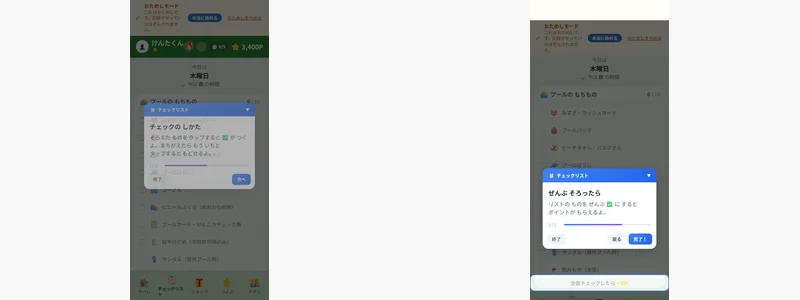
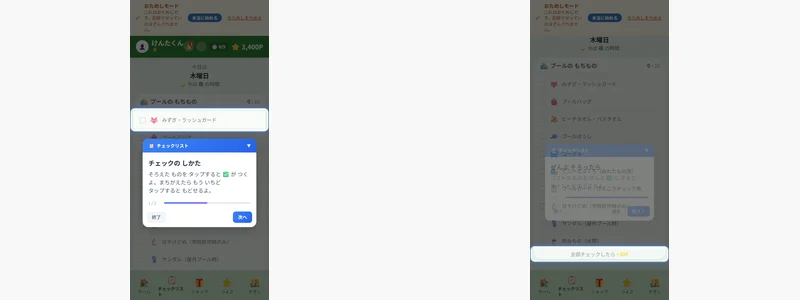
screenshots: PR #5006 (2026-09-23)

diff --git a/pr-5006/01-after-checklist-elementary-mobile-01-child-checklist-check.dom.html b/pr-5006/01-after-checklist-elementary-mobile-01-child-checklist-check.dom.html
@@ -38,7 +38,7 @@
 				transition-colors min-h-16
 				text-[var(--color-text-on-theme-nav)]" data-testid="nav-status" data-tutorial="nav-status"><span class="text-2xl" aria-hidden="true">⭐</span> <!--[0--><span class="text-xs">つよさ</span><!--]--></a><a href="/switch" class="tap-target flex flex-col items-center justify-center gap-0.5 flex-1 py-[var(--sp-sm)]
 				transition-colors min-h-16
-				text-[var(--color-text-on-theme-nav)]" data-testid="nav-switch"><span class="text-2xl" aria-hidden="true">👨👩👧👦</span> <!--[0--><span class="text-xs">かぞく</span><!--]--></a><!--]--></nav><!----> <!--[--><!--$s2--><!--[-1--><!--]--><!----><!--]--><!----> <!--[--><!--$s3--><!--[-1--><!--]--><!----><!--]--><!----><!---->  <!--[-1--><div class="tutorial-overlay svelte-c315ht" data-tutorial-target="fallback"><svg class="tutorial-overlay-svg svelte-c315ht" xmlns="http://www.w3.org/2000/svg" aria-hidden="true"><!----><rect class="tutorial-overlay-bg svelte-c315ht" width="100%" height="100%" fill="rgba(0,0,0,0.6)"></rect></svg> <!----> <div class="tutorial-bubble svelte-9wfq4r" data-step-id="child-checklist-check" data-has-target="true" style="top: 282px; left: 35px; width: 320px;"><div class="tutorial-chapter-header svelte-9wfq4r"><button class="tutorial-chapter-btn svelte-9wfq4r">📋 <span>チェックリスト</span> <span class="tutorial-chapter-arrow svelte-9wfq4r">▼</span></button></div> <!----> <div class="tutorial-content svelte-9wfq4r"><h3 class="tutorial-title svelte-9wfq4r" data-budoux="">チェックの しかた</h3> <p class="tutorial-description svelte-9wfq4r" data-budoux="">そろえた ものを タップすると ✅ が つくよ。まちがえたら もう いちど タップすると もどせるよ。</p></div> <div class="tutorial-progress svelte-9wfq4r"><span class="tutorial-progress-text svelte-9wfq4r">1 / 2</span> <div class="tutorial-progress-bar svelte-9wfq4r"><div class="tutorial-progress-fill svelte-9wfq4r" style="width: 50%;"></div></div></div> <div class="tutorial-nav svelte-9wfq4r"><button class="tutorial-nav-btn tutorial-nav-end svelte-9wfq4r">終了</button> <div class="tutorial-nav-right svelte-9wfq4r"><!----> <button class="tutorial-nav-btn tutorial-nav-next svelte-9wfq4r">次へ</button></div></div></div><!----></div><!--]--><!----><!--]--></div> <!--[0--><!--[-1--><!--]--><!--]--> <!--[0--><!--[--><!--$s4--><!--[-1--><!--]--><!----><!--]--><!--]--> <!--[0--><!--[--><!--$s5--><!--[-1--><!--]--><!----><!--]--><!--]--><!--]--><!--]--><!----><!--]--><!--]--> <!--[-1--><div id="svelte-announcer" aria-live="assertive" aria-atomic="true" style="position: absolute; left: 0; top: 0; clip: rect(0 0 0 0); clip-path: inset(50%); overflow: hidden; white-space: nowrap; width: 1px; height: 1px"><!----></div><!--]--><!--]-->
+				text-[var(--color-text-on-theme-nav)]" data-testid="nav-switch"><span class="text-2xl" aria-hidden="true">👨👩👧👦</span> <!--[0--><span class="text-xs">かぞく</span><!--]--></a><!--]--></nav><!----> <!--[--><!--$s2--><!--[-1--><!--]--><!----><!--]--><!----> <!--[--><!--$s3--><!--[-1--><!--]--><!----><!--]--><!----><!---->  <!--[-1--><div class="tutorial-overlay svelte-c315ht" data-tutorial-target="resolved"><svg class="tutorial-overlay-svg svelte-c315ht" xmlns="http://www.w3.org/2000/svg" aria-hidden="true"><defs class="svelte-c315ht"><mask id="tutorial-spotlight" class="svelte-c315ht"><rect width="100%" height="100%" fill="white" class="svelte-c315ht"></rect><rect rx="12" fill="black" class="svelte-c315ht" x="1" y="304.5" width="388" height="65"></rect></mask></defs><!----><rect class="tutorial-overlay-bg svelte-c315ht" width="100%" height="100%" fill="rgba(0,0,0,0.6)" mask="url(#tutorial-spotlight)"></rect></svg> <div class="tutorial-spotlight-ring svelte-c315ht" style="top: 302.5px; left: -1px; width: 392px; height: 69px;"></div><!----> <div class="tutorial-bubble svelte-9wfq4r" data-step-id="child-checklist-check" data-has-target="true" style="top: 389.5px; left: 35px; width: 320px;"><div class="tutorial-chapter-header svelte-9wfq4r"><button class="tutorial-chapter-btn svelte-9wfq4r">📋 <span>チェックリスト</span> <span class="tutorial-chapter-arrow svelte-9wfq4r">▼</span></button></div> <!----> <div class="tutorial-content svelte-9wfq4r"><h3 class="tutorial-title svelte-9wfq4r" data-budoux="">チェックの しかた</h3> <p class="tutorial-description svelte-9wfq4r" data-budoux="">そろえた ものを タップすると ✅ が つくよ。まちがえたら もう いちど タップすると もどせるよ。</p></div> <div class="tutorial-progress svelte-9wfq4r"><span class="tutorial-progress-text svelte-9wfq4r">1 / 2</span> <div class="tutorial-progress-bar svelte-9wfq4r"><div class="tutorial-progress-fill svelte-9wfq4r" style="width: 50%;"></div></div></div> <div class="tutorial-nav svelte-9wfq4r"><button class="tutorial-nav-btn tutorial-nav-end svelte-9wfq4r">終了</button> <div class="tutorial-nav-right svelte-9wfq4r"><!----> <button class="tutorial-nav-btn tutorial-nav-next svelte-9wfq4r">次へ</button></div></div></div><!----></div><!--]--><!----><!--]--></div> <!--[0--><!--[-1--><!--]--><!--]--> <!--[0--><!--[--><!--$s4--><!--[-1--><!--]--><!----><!--]--><!--]--> <!--[0--><!--[--><!--$s5--><!--[-1--><!--]--><!----><!--]--><!--]--><!--]--><!--]--><!----><!--]--><!--]--> <!--[-1--><div id="svelte-announcer" aria-live="assertive" aria-atomic="true" style="position: absolute; left: 0; top: 0; clip: rect(0 0 0 0); clip-path: inset(50%); overflow: hidden; white-space: nowrap; width: 1px; height: 1px"><!----></div><!--]--><!--]-->
 			
 			<script>
 				{
@@ -54,7 +54,7 @@
 					]).then(([kit, app]) => {
 						kit.start(app, element, {
 							node_ids: [0, 2, 11],
-							data: [{type:"data",data:{role:"owner",requestId:"ad2b3716-3bb4-45de-99b9-adc5c8e0931b",isDemo:true},uses:{}},(function(a){a.id="903";a.nickname="けんたくん";a.age=8;a.birthDate="2018-03-22";a.theme="green";a.uiMode="elementary";a.uiModeManuallySet=0;a.avatarUrl=null;a.displayConfig=null;a.userId=null;a.birthdayBonusMultiplier=1;a.lastBirthdayBonusYear=null;a.isArchived=0;a.archivedReason=null;a.createdAt="2025-04-01T00:00:00.000Z";a.updatedAt="2026-03-27T09:00:00.000Z";return {type:"data",data:{child:a,balance:3400,level:8,levelTitle:"きせきのマスター",allChildren:[{id:"901",nickname:"たろうくん",age:1,birthDate:"2025-01-15",theme:"blue",uiMode:"baby",uiModeManuallySet:0,avatarUrl:null,displayConfig:null,userId:null,birthdayBonusMultiplier:1,lastBirthdayBonusYear:null,isArchived:0,archivedReason:null,createdAt:"2026-01-01T00:00:00.000Z",updatedAt:"2026-03-27T09:00:00.000Z"},{id:"902",nickname:"ひなちゃん",age:5,birthDate:"2020-06-10",theme:"pink",uiMode:"preschool",uiModeManuallySet:0,avatarUrl:null,displayConfig:null,userId:null,birthdayBonusMultiplier:1,lastBirthdayBonusYear:null,isArchived:0,archivedReason:null,createdAt:"2025-09-01T00:00:00.000Z",updatedAt:"2026-03-27T09:00:00.000Z"},a,{id:"904",nickname:"さくらちゃん",age:14,birthDate:"2011-08-05",theme:"purple",uiMode:"junior",uiModeManuallySet:0,avatarUrl:null,displayConfig:null,userId:null,birthdayBonusMultiplier:1,lastBirthdayBonusYear:null,isArchived:0,archivedReason:null,createdAt:"2025-04-01T00:00:00.000Z",updatedAt:"2026-03-27T09:00:00.000Z"},{id:"906",nickname:"けいすけくん",age:17,birthDate:"2008-11-20",theme:"orange",uiMode:"senior",uiModeManuallySet:0,avatarUrl:null,displayConfig:null,userId:null,birthdayBonusMultiplier:1,lastBirthdayBonusYear:null,isArchived:0,archivedReason:null,createdAt:"2025-04-01T00:00:00.000Z",updatedAt:"2026-03-27T09:00:00.000Z"}],uiMode:"elementary",pointSettings:{mode:"point",currency:"JPY",rate:1},stampProgress:{filled:0,total:5},stampCard:{id:"0",childId:"903",weekStart:"2026-09-21",weekEnd:"2026-09-27",status:"collecting",entries:[],canStampToday:true,totalSlots:5,filledSlots:0,redeemedPoints:null},isPremium:true,planTier:"family",planLimits:{maxChildren:null,maxActivities:null,maxChecklistTemplates:null,maxFamilyMembers:null,historyRetentionDays:null,canExport:true,canFreeTextMessage:true,canCustomReward:true,canSiblingRanking:true,maxCloudExports:10},milestones:[{id:"first_record",threshold:1,achieved:true,achievedAt:"2026-03-14"},{id:"streak_7",threshold:7,achieved:true,achievedAt:null},{id:"streak_14",threshold:14,achieved:true,achievedAt:null},{id:"streak_30",threshold:30,achieved:false,achievedAt:null}],pinGateOnboardingSeen:true},uses:{url:1}}}({})),{type:"data",data:{checklists:[{templateId:"5000",templateName:"プールの もちもの",templateIcon:"🏊",timeSlot:"daily",pointsPerItem:2,completionBonus:10,items:[{id:"6000",name:"みずぎ・ラッシュガード",icon:"👙",checked:false,source:"template"},{id:"6001",name:"プールバッグ",icon:"🎒",checked:false,source:"template"},{id:"6002",name:"ビーチタオル・バスタオル",icon:"🏖",checked:false,source:"template"},{id:"6003",name:"プールぼうし",icon:"🧢",checked:false,source:"template"},{id:"6004",name:"ゴーグル",icon:"🥽",checked:false,source:"template"},{id:"6005",name:"ビニールぶくろ（ぬれたもの用）",icon:"🛍",checked:false,source:"template"},{id:"6006",name:"プールカード・けんこうチェック表",icon:"📋",checked:false,source:"template"},{id:"6007",name:"日やけどめ（学校許可時のみ）",icon:"🧴",checked:false,source:"template"},{id:"6008",name:"サンダル（屋外プール時）",icon:"🩴",checked:false,source:"template"},{id:"6009",name:"飲みもの（水筒）",icon:"🥤",checked:false,source:"template"}],checkedCount:0,totalCount:10,completedAll:false,pointsAwarded:0}],currentTimeSlot:"evening"},uses:{parent:1}}],
+							data: [{type:"data",data:{role:"owner",requestId:"4d31f05f-3234-4eed-b966-630bfe1fba53",isDemo:true},uses:{}},(function(a){a.id="903";a.nickname="けんたくん";a.age=8;a.birthDate="2018-03-22";a.theme="green";a.uiMode="elementary";a.uiModeManuallySet=0;a.avatarUrl=null;a.displayConfig=null;a.userId=null;a.birthdayBonusMultiplier=1;a.lastBirthdayBonusYear=null;a.isArchived=0;a.archivedReason=null;a.createdAt="2025-04-01T00:00:00.000Z";a.updatedAt="2026-03-27T09:00:00.000Z";return {type:"data",data:{child:a,balance:3400,level:8,levelTitle:"きせきのマスター",allChildren:[{id:"901",nickname:"たろうくん",age:1,birthDate:"2025-01-15",theme:"blue",uiMode:"baby",uiModeManuallySet:0,avatarUrl:null,displayConfig:null,userId:null,birthdayBonusMultiplier:1,lastBirthdayBonusYear:null,isArchived:0,archivedReason:null,createdAt:"2026-01-01T00:00:00.000Z",updatedAt:"2026-03-27T09:00:00.000Z"},{id:"902",nickname:"ひなちゃん",age:5,birthDate:"2020-06-10",theme:"pink",uiMode:"preschool",uiModeManuallySet:0,avatarUrl:null,displayConfig:null,userId:null,birthdayBonusMultiplier:1,lastBirthdayBonusYear:null,isArchived:0,archivedReason:null,createdAt:"2025-09-01T00:00:00.000Z",updatedAt:"2026-03-27T09:00:00.000Z"},a,{id:"904",nickname:"さくらちゃん",age:14,birthDate:"2011-08-05",theme:"purple",uiMode:"junior",uiModeManuallySet:0,avatarUrl:null,displayConfig:null,userId:null,birthdayBonusMultiplier:1,lastBirthdayBonusYear:null,isArchived:0,archivedReason:null,createdAt:"2025-04-01T00:00:00.000Z",updatedAt:"2026-03-27T09:00:00.000Z"},{id:"906",nickname:"けいすけくん",age:17,birthDate:"2008-11-20",theme:"orange",uiMode:"senior",uiModeManuallySet:0,avatarUrl:null,displayConfig:null,userId:null,birthdayBonusMultiplier:1,lastBirthdayBonusYear:null,isArchived:0,archivedReason:null,createdAt:"2025-04-01T00:00:00.000Z",updatedAt:"2026-03-27T09:00:00.000Z"}],uiMode:"elementary",pointSettings:{mode:"point",currency:"JPY",rate:1},stampProgress:{filled:0,total:5},stampCard:{id:"0",childId:"903",weekStart:"2026-09-21",weekEnd:"2026-09-27",status:"collecting",entries:[],canStampToday:true,totalSlots:5,filledSlots:0,redeemedPoints:null},isPremium:true,planTier:"family",planLimits:{maxChildren:null,maxActivities:null,maxChecklistTemplates:null,maxFamilyMembers:null,historyRetentionDays:null,canExport:true,canFreeTextMessage:true,canCustomReward:true,canSiblingRanking:true,maxCloudExports:10},milestones:[{id:"first_record",threshold:1,achieved:true,achievedAt:"2026-03-14"},{id:"streak_7",threshold:7,achieved:true,achievedAt:null},{id:"streak_14",threshold:14,achieved:true,achievedAt:null},{id:"streak_30",threshold:30,achieved:false,achievedAt:null}],pinGateOnboardingSeen:true},uses:{url:1}}}({})),{type:"data",data:{checklists:[{templateId:"5000",templateName:"プールの もちもの",templateIcon:"🏊",timeSlot:"daily",pointsPerItem:2,completionBonus:10,items:[{id:"6000",name:"みずぎ・ラッシュガード",icon:"👙",checked:false,source:"template"},{id:"6001",name:"プールバッグ",icon:"🎒",checked:false,source:"template"},{id:"6002",name:"ビーチタオル・バスタオル",icon:"🏖",checked:false,source:"template"},{id:"6003",name:"プールぼうし",icon:"🧢",checked:false,source:"template"},{id:"6004",name:"ゴーグル",icon:"🥽",checked:false,source:"template"},{id:"6005",name:"ビニールぶくろ（ぬれたもの用）",icon:"🛍",checked:false,source:"template"},{id:"6006",name:"プールカード・けんこうチェック表",icon:"📋",checked:false,source:"template"},{id:"6007",name:"日やけどめ（学校許可時のみ）",icon:"🧴",checked:false,source:"template"},{id:"6008",name:"サンダル（屋外プール時）",icon:"🩴",checked:false,source:"template"},{id:"6009",name:"飲みもの（水筒）",icon:"🥤",checked:false,source:"template"}],checkedCount:0,totalCount:10,completedAll:false,pointsAwarded:0}],currentTimeSlot:"evening"},uses:{parent:1}}],
 							form: null,
 							error: null
 						});

diff --git a/pr-5006/02-after-checklist-elementary-mobile-02-child-checklist-points.dom.html b/pr-5006/02-after-checklist-elementary-mobile-02-child-checklist-points.dom.html
@@ -54,7 +54,7 @@
 					]).then(([kit, app]) => {
 						kit.start(app, element, {
 							node_ids: [0, 2, 11],
-							data: [{type:"data",data:{role:"owner",requestId:"ad2b3716-3bb4-45de-99b9-adc5c8e0931b",isDemo:true},uses:{}},(function(a){a.id="903";a.nickname="けんたくん";a.age=8;a.birthDate="2018-03-22";a.theme="green";a.uiMode="elementary";a.uiModeManuallySet=0;a.avatarUrl=null;a.displayConfig=null;a.userId=null;a.birthdayBonusMultiplier=1;a.lastBirthdayBonusYear=null;a.isArchived=0;a.archivedReason=null;a.createdAt="2025-04-01T00:00:00.000Z";a.updatedAt="2026-03-27T09:00:00.000Z";return {type:"data",data:{child:a,balance:3400,level:8,levelTitle:"きせきのマスター",allChildren:[{id:"901",nickname:"たろうくん",age:1,birthDate:"2025-01-15",theme:"blue",uiMode:"baby",uiModeManuallySet:0,avatarUrl:null,displayConfig:null,userId:null,birthdayBonusMultiplier:1,lastBirthdayBonusYear:null,isArchived:0,archivedReason:null,createdAt:"2026-01-01T00:00:00.000Z",updatedAt:"2026-03-27T09:00:00.000Z"},{id:"902",nickname:"ひなちゃん",age:5,birthDate:"2020-06-10",theme:"pink",uiMode:"preschool",uiModeManuallySet:0,avatarUrl:null,displayConfig:null,userId:null,birthdayBonusMultiplier:1,lastBirthdayBonusYear:null,isArchived:0,archivedReason:null,createdAt:"2025-09-01T00:00:00.000Z",updatedAt:"2026-03-27T09:00:00.000Z"},a,{id:"904",nickname:"さくらちゃん",age:14,birthDate:"2011-08-05",theme:"purple",uiMode:"junior",uiModeManuallySet:0,avatarUrl:null,displayConfig:null,userId:null,birthdayBonusMultiplier:1,lastBirthdayBonusYear:null,isArchived:0,archivedReason:null,createdAt:"2025-04-01T00:00:00.000Z",updatedAt:"2026-03-27T09:00:00.000Z"},{id:"906",nickname:"けいすけくん",age:17,birthDate:"2008-11-20",theme:"orange",uiMode:"senior",uiModeManuallySet:0,avatarUrl:null,displayConfig:null,userId:null,birthdayBonusMultiplier:1,lastBirthdayBonusYear:null,isArchived:0,archivedReason:null,createdAt:"2025-04-01T00:00:00.000Z",updatedAt:"2026-03-27T09:00:00.000Z"}],uiMode:"elementary",pointSettings:{mode:"point",currency:"JPY",rate:1},stampProgress:{filled:0,total:5},stampCard:{id:"0",childId:"903",weekStart:"2026-09-21",weekEnd:"2026-09-27",status:"collecting",entries:[],canStampToday:true,totalSlots:5,filledSlots:0,redeemedPoints:null},isPremium:true,planTier:"family",planLimits:{maxChildren:null,maxActivities:null,maxChecklistTemplates:null,maxFamilyMembers:null,historyRetentionDays:null,canExport:true,canFreeTextMessage:true,canCustomReward:true,canSiblingRanking:true,maxCloudExports:10},milestones:[{id:"first_record",threshold:1,achieved:true,achievedAt:"2026-03-14"},{id:"streak_7",threshold:7,achieved:true,achievedAt:null},{id:"streak_14",threshold:14,achieved:true,achievedAt:null},{id:"streak_30",threshold:30,achieved:false,achievedAt:null}],pinGateOnboardingSeen:true},uses:{url:1}}}({})),{type:"data",data:{checklists:[{templateId:"5000",templateName:"プールの もちもの",templateIcon:"🏊",timeSlot:"daily",pointsPerItem:2,completionBonus:10,items:[{id:"6000",name:"みずぎ・ラッシュガード",icon:"👙",checked:false,source:"template"},{id:"6001",name:"プールバッグ",icon:"🎒",checked:false,source:"template"},{id:"6002",name:"ビーチタオル・バスタオル",icon:"🏖",checked:false,source:"template"},{id:"6003",name:"プールぼうし",icon:"🧢",checked:false,source:"template"},{id:"6004",name:"ゴーグル",icon:"🥽",checked:false,source:"template"},{id:"6005",name:"ビニールぶくろ（ぬれたもの用）",icon:"🛍",checked:false,source:"template"},{id:"6006",name:"プールカード・けんこうチェック表",icon:"📋",checked:false,source:"template"},{id:"6007",name:"日やけどめ（学校許可時のみ）",icon:"🧴",checked:false,source:"template"},{id:"6008",name:"サンダル（屋外プール時）",icon:"🩴",checked:false,source:"template"},{id:"6009",name:"飲みもの（水筒）",icon:"🥤",checked:false,source:"template"}],checkedCount:0,totalCount:10,completedAll:false,pointsAwarded:0}],currentTimeSlot:"evening"},uses:{parent:1}}],
+							data: [{type:"data",data:{role:"owner",requestId:"4d31f05f-3234-4eed-b966-630bfe1fba53",isDemo:true},uses:{}},(function(a){a.id="903";a.nickname="けんたくん";a.age=8;a.birthDate="2018-03-22";a.theme="green";a.uiMode="elementary";a.uiModeManuallySet=0;a.avatarUrl=null;a.displayConfig=null;a.userId=null;a.birthdayBonusMultiplier=1;a.lastBirthdayBonusYear=null;a.isArchived=0;a.archivedReason=null;a.createdAt="2025-04-01T00:00:00.000Z";a.updatedAt="2026-03-27T09:00:00.000Z";return {type:"data",data:{child:a,balance:3400,level:8,levelTitle:"きせきのマスター",allChildren:[{id:"901",nickname:"たろうくん",age:1,birthDate:"2025-01-15",theme:"blue",uiMode:"baby",uiModeManuallySet:0,avatarUrl:null,displayConfig:null,userId:null,birthdayBonusMultiplier:1,lastBirthdayBonusYear:null,isArchived:0,archivedReason:null,createdAt:"2026-01-01T00:00:00.000Z",updatedAt:"2026-03-27T09:00:00.000Z"},{id:"902",nickname:"ひなちゃん",age:5,birthDate:"2020-06-10",theme:"pink",uiMode:"preschool",uiModeManuallySet:0,avatarUrl:null,displayConfig:null,userId:null,birthdayBonusMultiplier:1,lastBirthdayBonusYear:null,isArchived:0,archivedReason:null,createdAt:"2025-09-01T00:00:00.000Z",updatedAt:"2026-03-27T09:00:00.000Z"},a,{id:"904",nickname:"さくらちゃん",age:14,birthDate:"2011-08-05",theme:"purple",uiMode:"junior",uiModeManuallySet:0,avatarUrl:null,displayConfig:null,userId:null,birthdayBonusMultiplier:1,lastBirthdayBonusYear:null,isArchived:0,archivedReason:null,createdAt:"2025-04-01T00:00:00.000Z",updatedAt:"2026-03-27T09:00:00.000Z"},{id:"906",nickname:"けいすけくん",age:17,birthDate:"2008-11-20",theme:"orange",uiMode:"senior",uiModeManuallySet:0,avatarUrl:null,displayConfig:null,userId:null,birthdayBonusMultiplier:1,lastBirthdayBonusYear:null,isArchived:0,archivedReason:null,createdAt:"2025-04-01T00:00:00.000Z",updatedAt:"2026-03-27T09:00:00.000Z"}],uiMode:"elementary",pointSettings:{mode:"point",currency:"JPY",rate:1},stampProgress:{filled:0,total:5},stampCard:{id:"0",childId:"903",weekStart:"2026-09-21",weekEnd:"2026-09-27",status:"collecting",entries:[],canStampToday:true,totalSlots:5,filledSlots:0,redeemedPoints:null},isPremium:true,planTier:"family",planLimits:{maxChildren:null,maxActivities:null,maxChecklistTemplates:null,maxFamilyMembers:null,historyRetentionDays:null,canExport:true,canFreeTextMessage:true,canCustomReward:true,canSiblingRanking:true,maxCloudExports:10},milestones:[{id:"first_record",threshold:1,achieved:true,achievedAt:"2026-03-14"},{id:"streak_7",threshold:7,achieved:true,achievedAt:null},{id:"streak_14",threshold:14,achieved:true,achievedAt:null},{id:"streak_30",threshold:30,achieved:false,achievedAt:null}],pinGateOnboardingSeen:true},uses:{url:1}}}({})),{type:"data",data:{checklists:[{templateId:"5000",templateName:"プールの もちもの",templateIcon:"🏊",timeSlot:"daily",pointsPerItem:2,completionBonus:10,items:[{id:"6000",name:"みずぎ・ラッシュガード",icon:"👙",checked:false,source:"template"},{id:"6001",name:"プールバッグ",icon:"🎒",checked:false,source:"template"},{id:"6002",name:"ビーチタオル・バスタオル",icon:"🏖",checked:false,source:"template"},{id:"6003",name:"プールぼうし",icon:"🧢",checked:false,source:"template"},{id:"6004",name:"ゴーグル",icon:"🥽",checked:false,source:"template"},{id:"6005",name:"ビニールぶくろ（ぬれたもの用）",icon:"🛍",checked:false,source:"template"},{id:"6006",name:"プールカード・けんこうチェック表",icon:"📋",checked:false,source:"template"},{id:"6007",name:"日やけどめ（学校許可時のみ）",icon:"🧴",checked:false,source:"template"},{id:"6008",name:"サンダル（屋外プール時）",icon:"🩴",checked:false,source:"template"},{id:"6009",name:"飲みもの（水筒）",icon:"🥤",checked:false,source:"template"}],checkedCount:0,totalCount:10,completedAll:false,pointsAwarded:0}],currentTimeSlot:"evening"},uses:{parent:1}}],
 							form: null,
 							error: null
 						});
